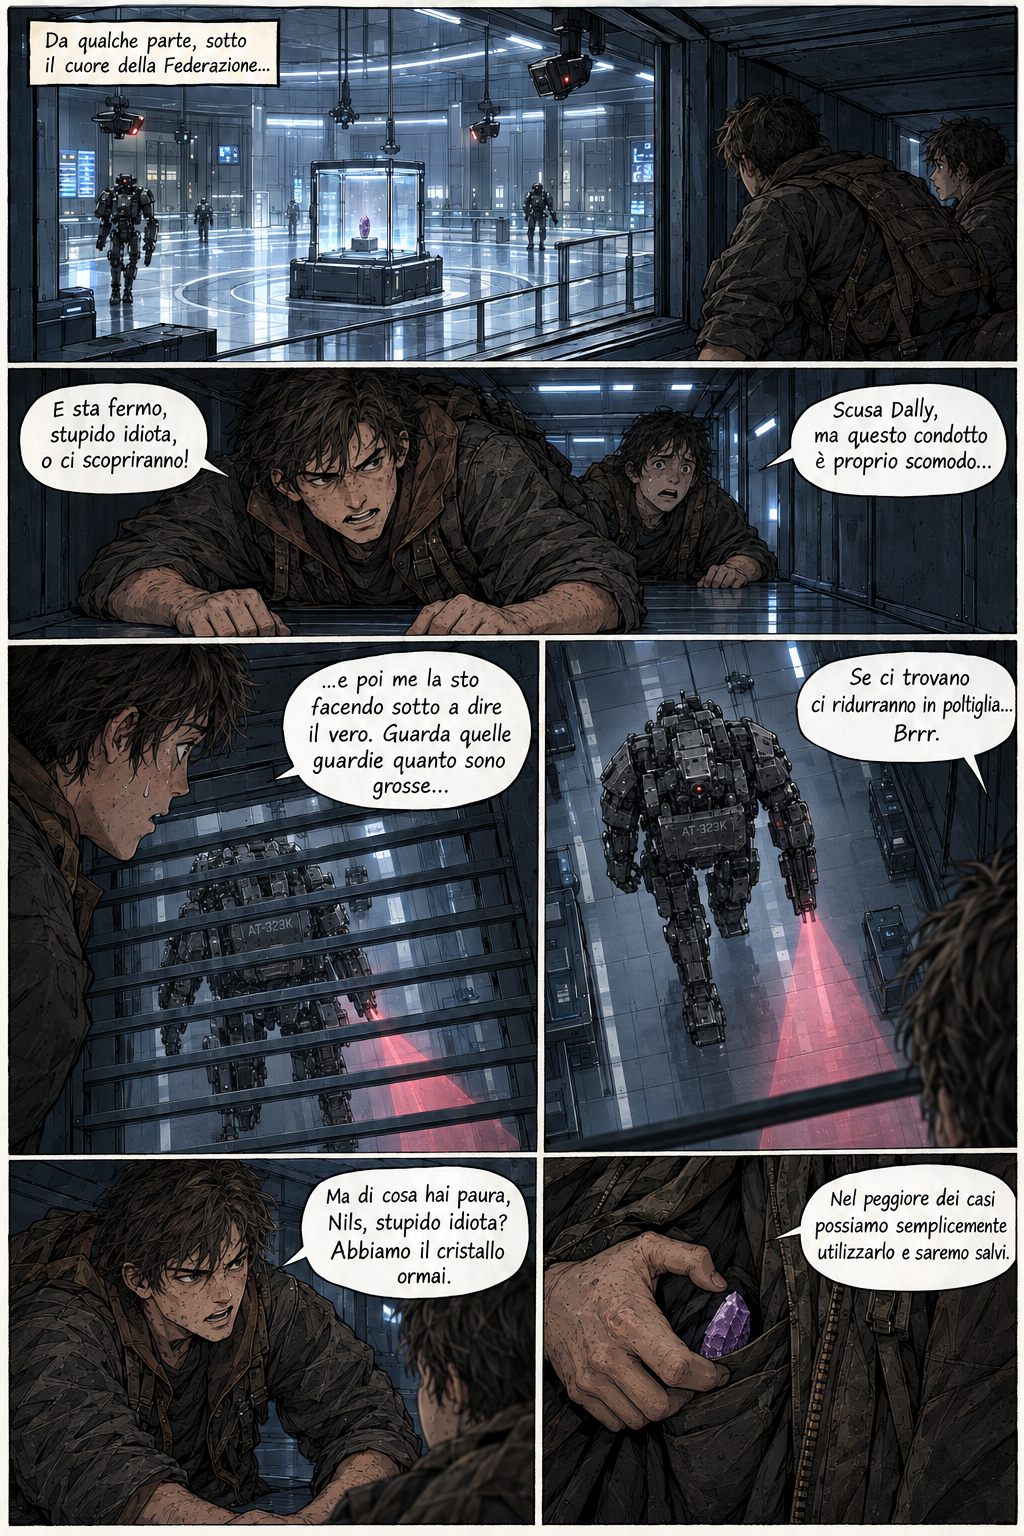
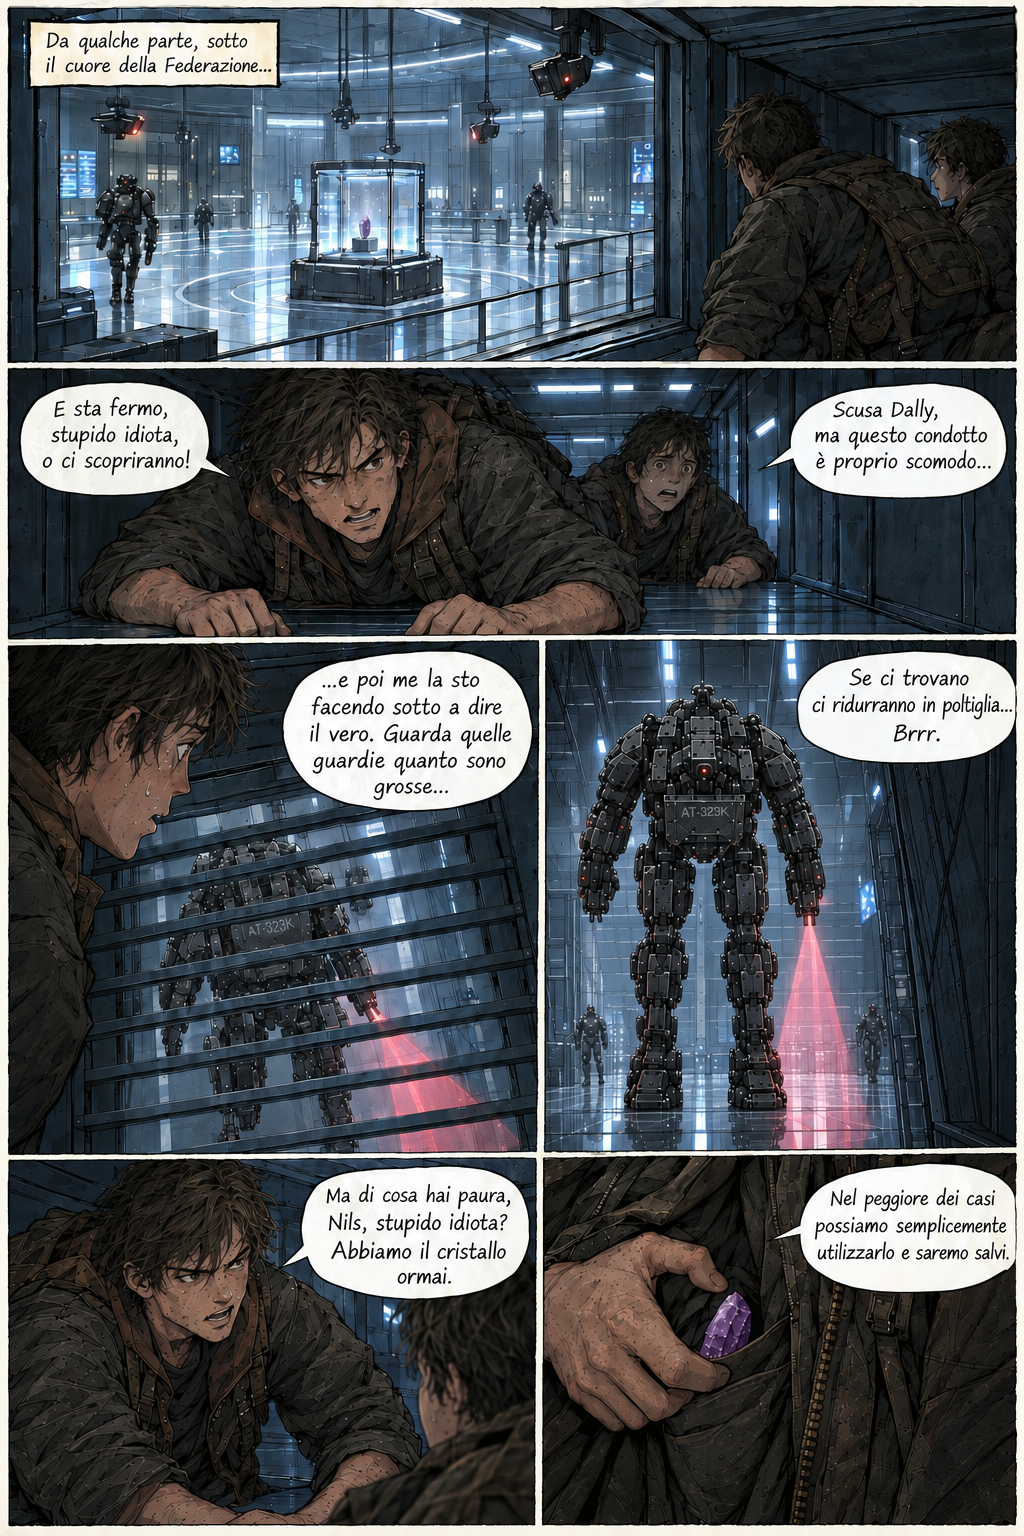
.

diff --git a/ldc/doppioscambio.html b/ldc/doppioscambio.html
@@ -43,7 +43,7 @@
 						<path d="M8.051 1.999h.089c.822.003 4.987.033 6.11.335a2.01 2.01 0 0 1 1.415 1.42c.101.38.172.883.22 1.402l.01.104.022.26.008.104c.065.914.073 1.77.074 1.957v.075c-.001.194-.01 1.108-.082 2.06l-.008.105-.009.104c-.05.572-.124 1.14-.235 1.558a2.01 2.01 0 0 1-1.415 1.42c-1.16.312-5.569.334-6.18.335h-.142c-.309 0-1.587-.006-2.927-.052l-.17-.006-.087-.004-.171-.007-.171-.007c-1.11-.049-2.167-.128-2.654-.26a2.01 2.01 0 0 1-1.415-1.419c-.111-.417-.185-.986-.235-1.558L.09 9.82l-.008-.104A31 31 0 0 1 0 7.68v-.123c.002-.215.01-.958.064-1.778l.007-.103.003-.052.008-.104.022-.26.01-.104c.048-.519.119-1.023.22-1.402a2.01 2.01 0 0 1 1.415-1.42c.487-.13 1.544-.21 2.654-.26l.17-.007.172-.006.086-.003.171-.007A100 100 0 0 1 7.858 2zM6.4 5.209v4.818l4.157-2.408z"/>
 					</svg>
 				</a><br>
-				<span class="comic-dates">Pubblicato il: 21/09/2026 - Aggiornato il: 29/09/2026</span>
+				<span class="comic-dates">Pubblicato il: 21/09/2026 - Aggiornato il: 01/10/2026</span>
 			</div>
 
 			<!-- Two columns layout -->

diff --git a/ldc/index.html b/ldc/index.html
@@ -48,7 +48,7 @@
 							</div>
 						</a>
 						<div class="update-title">Doppio Scambio</div>
-						<span class="update-date">Aggiornato: 29/09/2026</span>
+						<span class="update-date">Aggiornato: 01/10/2026</span>
 					</div>
 
 					<div class="update">
